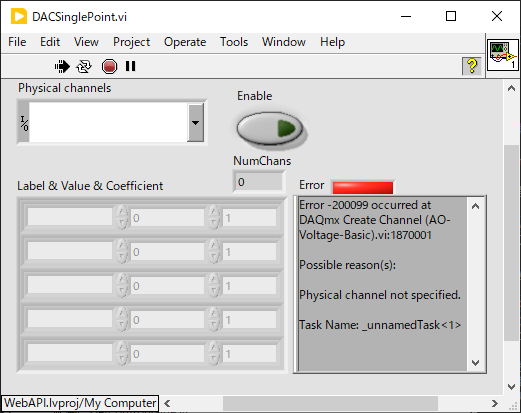
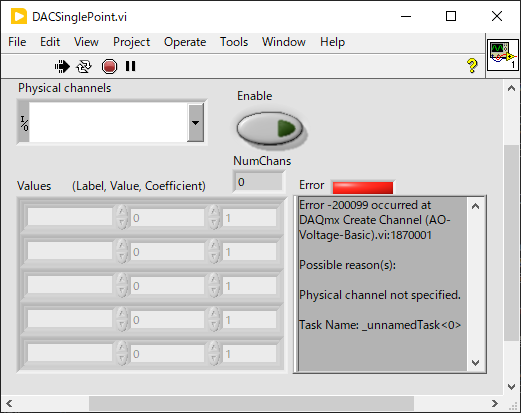
DACSinglePoint.vi のコントロール名変更がドキュメントに反映されていなかったのを直した

diff --git a/hardware/Readme.md b/hardware/Readme.md
@@ -60,9 +60,9 @@ DACSinglePoint.vi = DAC の電圧値を制御するアプリ
 - このアプリだけだと人がちまちま値を入れて電圧を変えることしかできない
 - [`ParameterSweeper.vi`](../utilities/#parametersweepervi) と組み合わせて使うのがこのアプリの主な用途
   - VI 名 `DaACSinglePoint`
-  - コントロール名 `Label & Value & Coefficient[0]/Value`
+  - コントロール名 `Values[0]/Value`
   - などとして [`ParameterSweeper.vi`](../utilities/#parametersweepervi) で値を掃引可能
-- 異なる測定ごとに [`SettingManager.vi`](../utilities/#settingmanagervi) で `Physical channels`, `Label & Value & Coefficient` の値を設定すると使い勝手が良いはず
+- 異なる測定ごとに [`ScriptManager.vi`](../utilities/#scriptmanagervi) で `Physical channels`, `Values` の値を設定すると使い勝手が良いはず
 
 SignalRecovery7280Lock-inAmp.vi
 --
